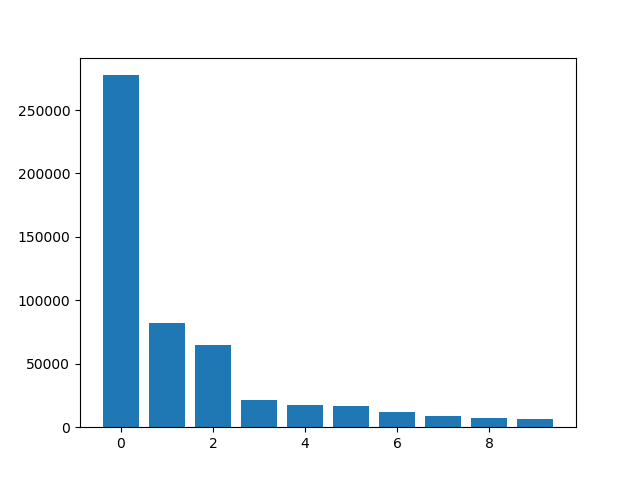
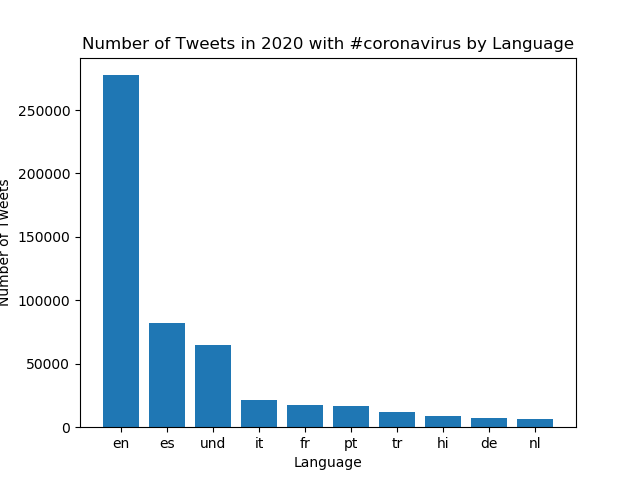
added labels in visualize

diff --git a/src/visualize.py b/src/visualize.py
@@ -32,6 +32,13 @@ items = sorted(counts[args.key].items(), key=lambda item: (item[1],item[0]), rev
 
 # Create the bar graph
 plt.bar([i for i in range(10)], [v for k, v in items[:10]])
+xLabel = "Language"
+if args.input_path == "reduced.country":
+    xLabel = "Country"
+plt.xlabel(xLabel)
+plt.ylabel("Number of Tweets")
+plt.title("Number of Tweets in 2020 with " + args.key + " by " + xLabel)
+plt.xticks([i for i in range(10)], [k for k, v in items[:10]])
 plt.savefig(args.input_path + args.key + ".png")
 # x-axis
 
